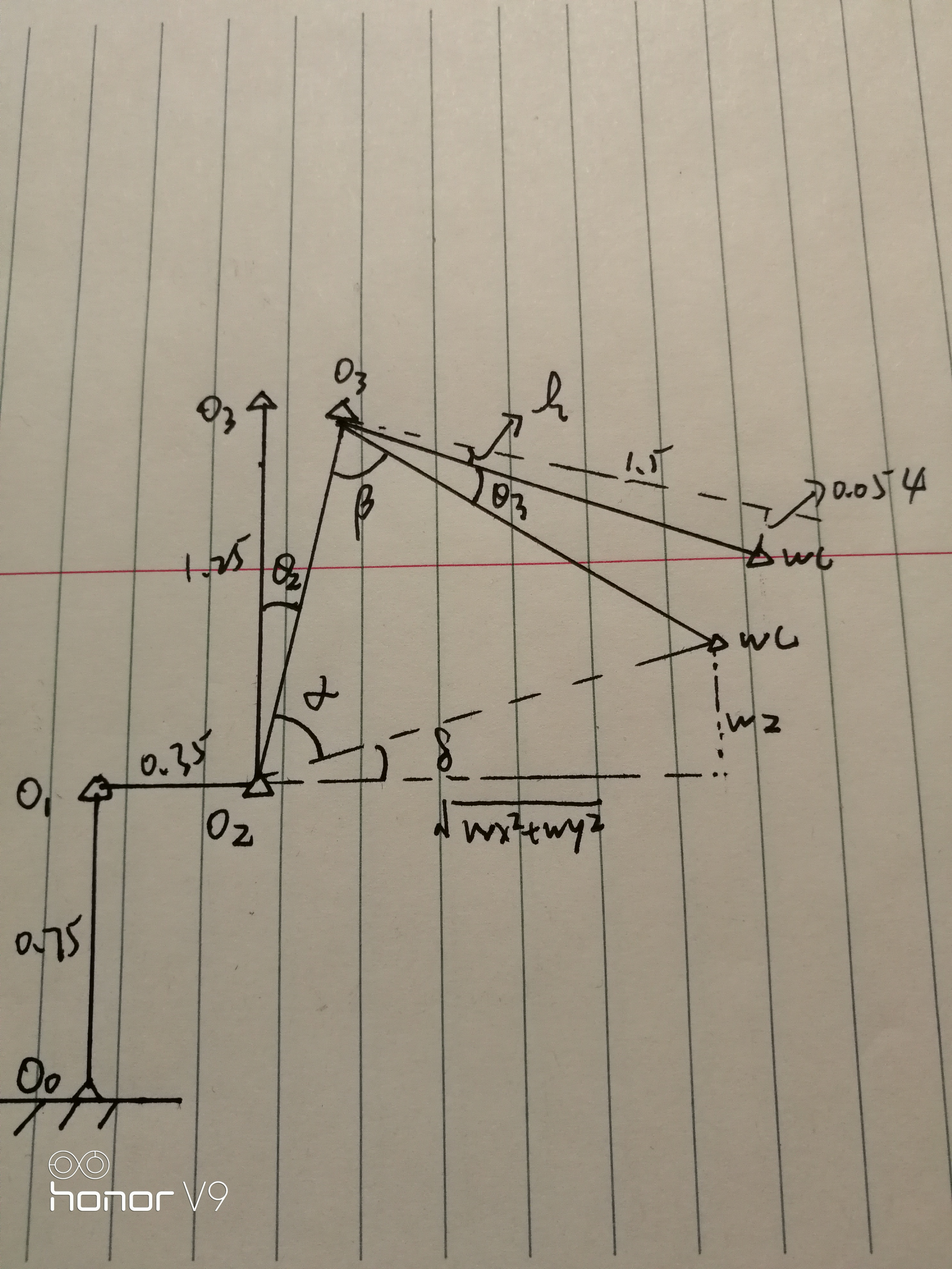
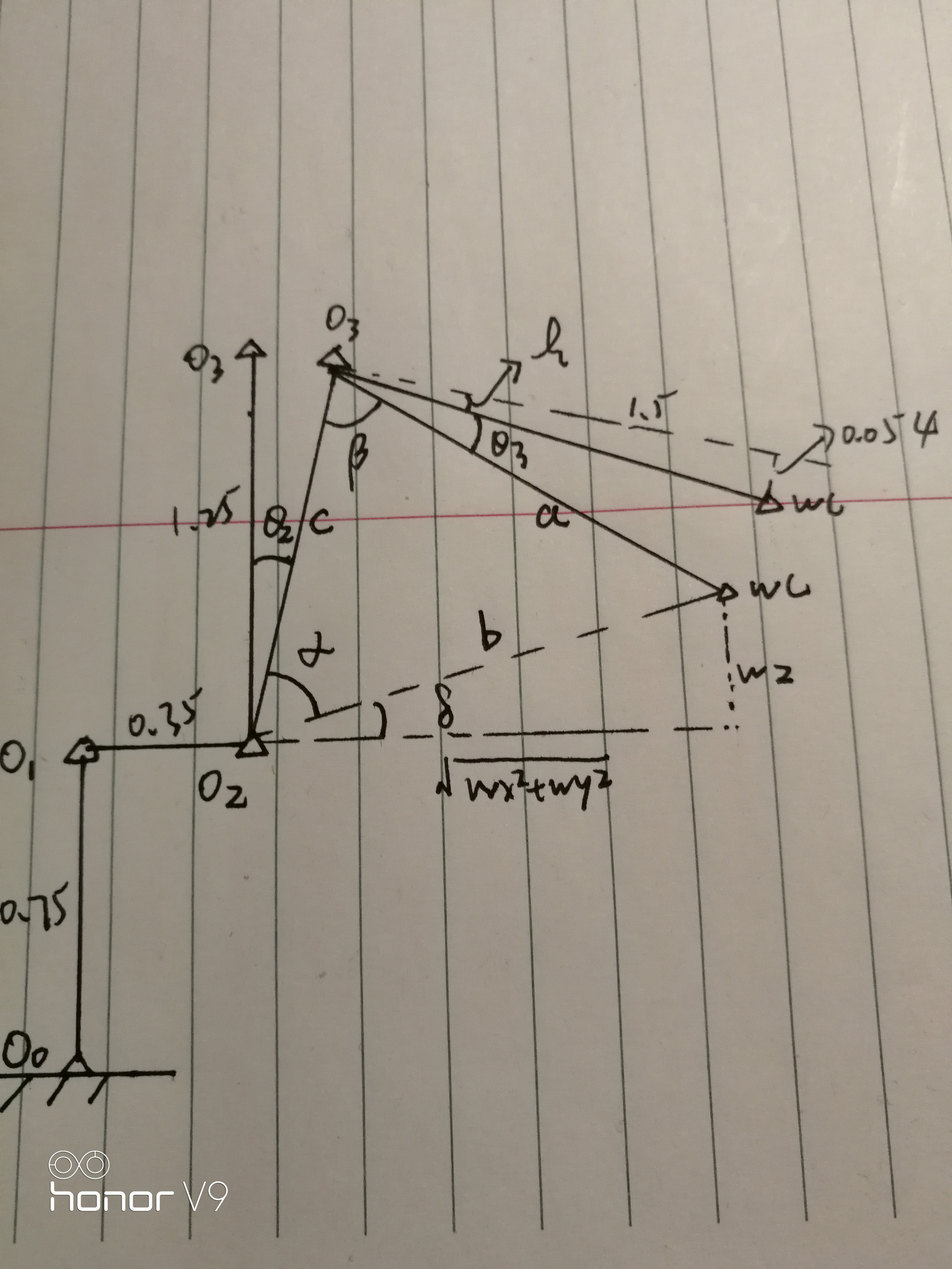
improve writeup

diff --git a/kuka_arm/scripts/test.py b/kuka_arm/scripts/test.py
@@ -1,0 +1,37 @@
+from sympy import *
+
+def dh_trans_unit(p, a, d, q): #p as alpha, q as theta
+    ret = Matrix([
+        [       cos(q),       -sin(q),      0,          a], 
+        [sin(q)*cos(p), cos(q)*cos(p), -sin(p), -sin(p)*d],
+        [sin(q)*sin(p), cos(q)*sin(p),  cos(p),  cos(p)*d],
+        [            0,             0,       0,         1]])
+    
+    return ret 
+
+
+q1, q2, q3, q4, q5, q6 = symbols('q1:7')
+
+def dh_build_R3_6():
+
+    # DH Table from urdf
+    # alpha[i-1], a[i-1], d[i], theta[i]
+    dh_params = Matrix([
+            [-pi/2, -0.054, 1.5,    q4],
+            [pi/2, 0,       0,      q5],
+            [-pi/2, 0,      0,      q6],
+    ])  
+    ret = eye(4)
+    for i in range(0, dh_params.rows):
+        trans_unit = dh_trans_unit(dh_params[i,0], dh_params[i,1], dh_params[i,2], dh_params[i,3])
+        ret = ret * trans_unit
+
+    ret = simplify(ret)
+    print(ret)
+#R3_6 = Matrix([
+#    [-sin(q4)*cos(q6)+cos(q4)*cos(q5)*cos(q6), -sin(q4)*cos(q6)-cos(q4)*cos(q5)*sin(q6), -cos(q4)*sin(q5)],
+#    [sin(q5)*cos(q6),                          -sin(q5)*sin(q6),                         cos(q5)],
+#    [-sin(q4)*cos(q5)*cos(q6)-cos(q4)*sin(q6), sin(q4)*cos(q5)*sin(q6)-cos(q4)*cos(q6),  sin(q4)*sin(q5)]
+#])
+
+dh_build_R3_6()

diff --git a/kuka_arm/scripts/IK_server.py b/kuka_arm/scripts/IK_server.py
@@ -148,7 +148,7 @@ def handle_calculate_IK(req):
             R3_6 = dh_build_R3_6(Rrpy).evalf(subs={q1:theta1, q2:theta2, q3:theta3})
             theta4 = atan2(R3_6[2, 2], -R3_6[0, 2])
             theta5 = atan2(sqrt(R3_6[1, 0]**2 + R3_6[1, 1]**2), R3_6[1, 2])
-            theta6 = atan2(R3_6[1, 1], R3_6[1, 0])
+            theta6 = atan2(-R3_6[1, 1], R3_6[1, 0])
 
             # Populate response for the IK request
             # In the next line replace theta1,theta2...,theta6 by your joint angle variables

diff --git a/writeup.md b/writeup.md
@@ -30,9 +30,22 @@ Following are the frames of every joint of kuka_arm.
 
 ![alt text][image1]
 
+Alpha(i-1) is the angle from Z(i-1) to Z(i) based on X(i-1).
+
+A(i-1) is the distance from Z(i-1) to Z(i) based on X(i-1).
+
+D(i) is the distance from X(i-1) to X(i) based on Z(i).
+
+Theta(i) is the angle from  X(i-1) to X(i) based on Z(i).
+
+
+Note that all the angles need be calculated under the right hand rule, including the joint angles, which is based on Z(i).
+
 #### 2. Using the DH parameter table you derived earlier, create individual transformation matrices about each joint. In addition, also generate a generalized homogeneous transform between base_link and gripper_link using only end-effector(gripper) pose.
 
-Links | alpha(i-1) | a(i-1) | d(i-1) | theta(i)
+1) DH Parameters was built as the following table.
+
+Links | alpha(i-1) | a(i-1) | d(i) | theta(i)
 --- | --- | --- | --- | ---
 0->1 | 0 | 0 | 0.75 | q1
 1->2 | -pi/2 | 0.35 | 0 | -pi/2 + q2
@@ -42,22 +55,100 @@ Links | alpha(i-1) | a(i-1) | d(i-1) | theta(i)
 5->6 | -pi/2 | 0 | 0 | q6
 6->EE | 0 | 0 | 0.303 | 0
 
+2) I use two steps to build the transformation matrix from Frame_0 to Frame_EE. The first step is build single transformation matrix from frame i-1 to frame i.
 
+	def dh_trans_unit(p, a, d, q): #p as alpha, q as theta
+	    ret = Matrix([
+	        [       cos(q),       -sin(q),      0,          a], 
+	        [sin(q)*cos(p), cos(q)*cos(p), -sin(p), -sin(p)*d],
+	        [sin(q)*sin(p), cos(q)*sin(p),  cos(p),  cos(p)*d],
+	        [            0,             0,       0,         1]])
+	    
+	    return ret 
+	    
+Then the follow code snippet was used to build the transformation matrix from Frame_0 to Frame_EE.
+
+    dh_params = Matrix([
+            [0,     0,      0.75,   q1],
+            [-pi/2, 0.35,   0,      q2-pi/2],
+            [0,     1.25,   0,      q3],
+            [-pi/2, -0.054, 1.5,    q4],
+            [pi/2, 0,       0,      q5],
+            [-pi/2, 0,      0,      q6],
+            [0,     0,      0.303,  0]])
+
+    ret = eye(4)
+    for i in range(0, dh_params.rows):
+        trans_unit = dh_trans_unit(dh_params[i,0], dh_params[i,1], dh_params[i,2], dh_params[i,3])
+        ret = ret * trans_unit
+
+    ret = simplify(ret)
 #### 3. Decouple Inverse Kinematics problem into Inverse Position Kinematics and inverse Orientation Kinematics; doing so derive the equations to calculate all individual joint angles.
 
-1 First, I use EE points and Rrpy from simulater to calculate WC coordinate.
+1 First, since we have the case of a spherical wrist involving joints 4,5,6, the position of wrist center is governed by the first three joints, it is possible to decoule the inverse kinematics problem into position and orientation problems. 
+
+I use EE points and Rrpy from simulater to calculate WC coordinate with the following code snippet.
+
+		def rotation_rpy():
+		    R_x = Matrix([[1,       0,       0],
+		                  [0,  cos(r), -sin(r)],
+		                  [0,  sin(r),  cos(r)]])
+		
+		    R_y = Matrix([[cos(p), 0,  sin(p)],
+		                  [0,      1,       0],
+		                  [-sin(p), 0, cos(p)]])
+		
+		    R_z = Matrix([[cos(y),  -sin(y), 0],
+		                  [sin(y),   cos(y), 0],
+		                  [     0,        0, 1]])
+		    return simplify(R_z*R_y*R_x)
+		
+		G_Rrpy = rotation_rpy()
+
+Rrpy is the rotation matrix from Frame_0 to Frame_EE in URDF space, using external rotation by x/y/z. The angle roll, pitch, yaw is from simulater. 
+
+px, py, pz is the EE coordinate in Frame_0, what we want to know is the wrist center coordinate in Frame_0 space. Because in Frame_EE space, both EE and WC are on Z axis, column 2 of Rrpy is the vector along Z axis, we can calculate WC with the above code snippet.
+
+       #0.303 = link_6 + gripper_link
+       Rrpy = G_Rrpy.evalf(subs={r: roll, p: pitch, y: yaw})
+       wx = px - 0.303 * Rrpy[0, 0]
+       wy = py - 0.303 * Rrpy[1, 0]
+       wz = pz - 0.303 * Rrpy[2, 0]
+       
+
 
 2 Given WC, I use the following image to calculate theta1, theta2, and theta3.
 ![alt text][image2]
 
-3 Then with the help of Euler angles, I calucate theta4, theta5 and theta6. 
+In the above picture, let's say segment from O2 to O3 is c, O2 to WC is b, O3 to WC is a; angle from b to c is ahpha, angle from c to a is beta. Easy to see that length of c is 1.25, length of a is ```sqrt(1.5*1.5+0.054*0.054)```, length of be is ```sqrt(pow((sqrt(wx*wx+wy*wy)-0.35), 2) + pow((wz-0.75), 2))```.
+
+1) Theta(1) is quite simple, theta1 = atan2(wy, wx)  would be good.
+
+2) Theta(2) is pi/2 - alpha - delta, alpha could be calculated with the help of cosine theorem ```alpha = acos((b*b + c*c - a*a) / (2*b*c))```, delta could be calculated with ```delta = atan2(wz-0.75, sqrt(wx*wx+wy*wy)-0.35)```.
+
+2) Theta(3) is pi/2-beta-epsilon. beta could be calculated with the help of cosine theorem ```beta = acos((a*a + c*c - b*b) / (2*a*c))```, epsilon is ```epsilon = atan2(0.054, 1.5)```.
+
+3 Then with theta1/2/3, I could calculate R3_6 with ```inv(R0_3) * Rrpy * R_corr```, and try to calculate theta4/5/6 base on the following transmation matrix.
+
+	R3_6 = Matrix([
+		[-sin(q4)*sin(q6) + cos(q4)*cos(q5)*cos(q6), -sin(q4)*cos(q6) - sin(q6)*cos(q4)*cos(q5), -sin(q5)*cos(q4)],
+		[                           sin(q5)*cos(q6),                           -sin(q5)*sin(q6),          cos(q5)],
+		[-sin(q4)*cos(q5)*cos(q6) - sin(q6)*cos(q4),  sin(q4)*sin(q6)*cos(q5) - cos(q4)*cos(q6),  sin(q4)*sin(q5)]
+	])
+
+From the simplified R3_6 matrix, easy to get the following equations.
+
+    theta4 = atan2(R3_6[2, 2], -R3_6[0, 2])
+    theta5 = atan2(sqrt(R3_6[1, 0]**2 + R3_6[1, 1]**2), R3_6[1, 2])
+    theta6 = atan2(-R3_6[1, 1], R3_6[1, 0])
+
 
 ### Project Implementation
 
 #### 1. Fill in the `IK_server.py` file with properly commented python code for calculating Inverse Kinematics based on previously performed Kinematic Analysis. Your code must guide the robot to successfully complete 8/10 pick and place cycles. Briefly discuss the code you implemented and your results. 
 
 
-1 The code is based on the equation R0_6 * R_corr = Rrpy, where R0_6 is the rotation matrix from frame 0 to frame 6 in the DH space. Rrpy is in the URDF space, R_corr rotate from DH space to URDF space.
+1 The code is based on the equation R0_6 = Rrpy * R_corr, where R0_6 is the rotation matrix from frame 0 to frame 6 in the DH space. Rrpy is in the URDF space, R_corr rotate from DH space to URDF space.
 
 2 In my code, the inverse kinematics is decoupled into two parts, in the first part, I tred to calucate EE coordinate from EE coordinate and Rrpy.
 
@@ -91,4 +182,4 @@ Links | alpha(i-1) | a(i-1) | d(i-1) | theta(i)
             R3_6 = dh_build_R3_6(Rrpy).evalf(subs={q1:theta1, q2:theta2, q3:theta3})
             theta4 = atan2(R3_6[2, 2], -R3_6[0, 2])
             theta5 = atan2(sqrt(R3_6[1, 0]**2 + R3_6[1, 1]**2), R3_6[1, 2])
-            theta6 = atan2(R3_6[1, 1], R3_6[1, 0])
+            theta6 = atan2(-R3_6[1, 1], R3_6[1, 0])
